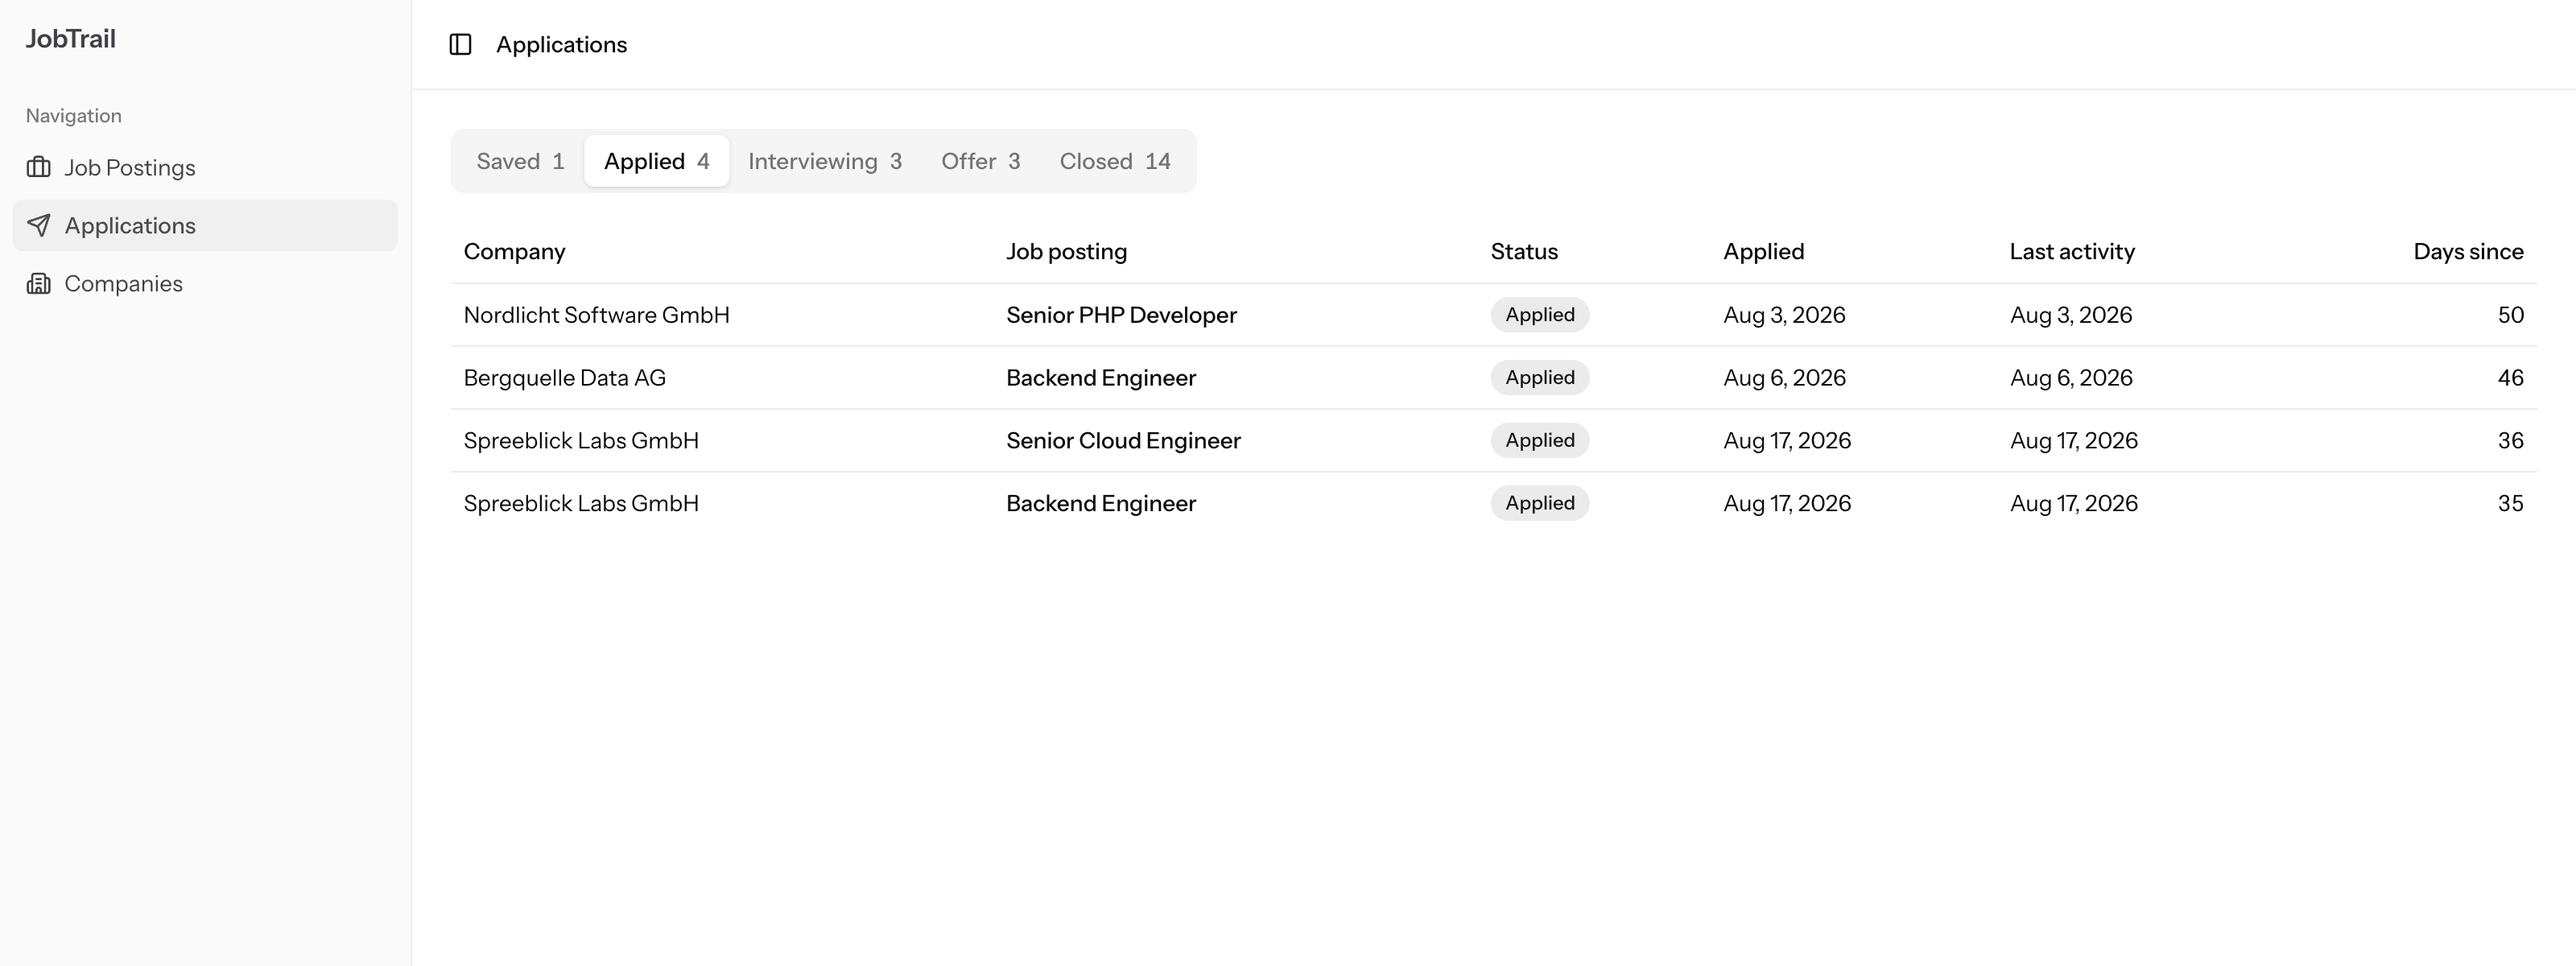
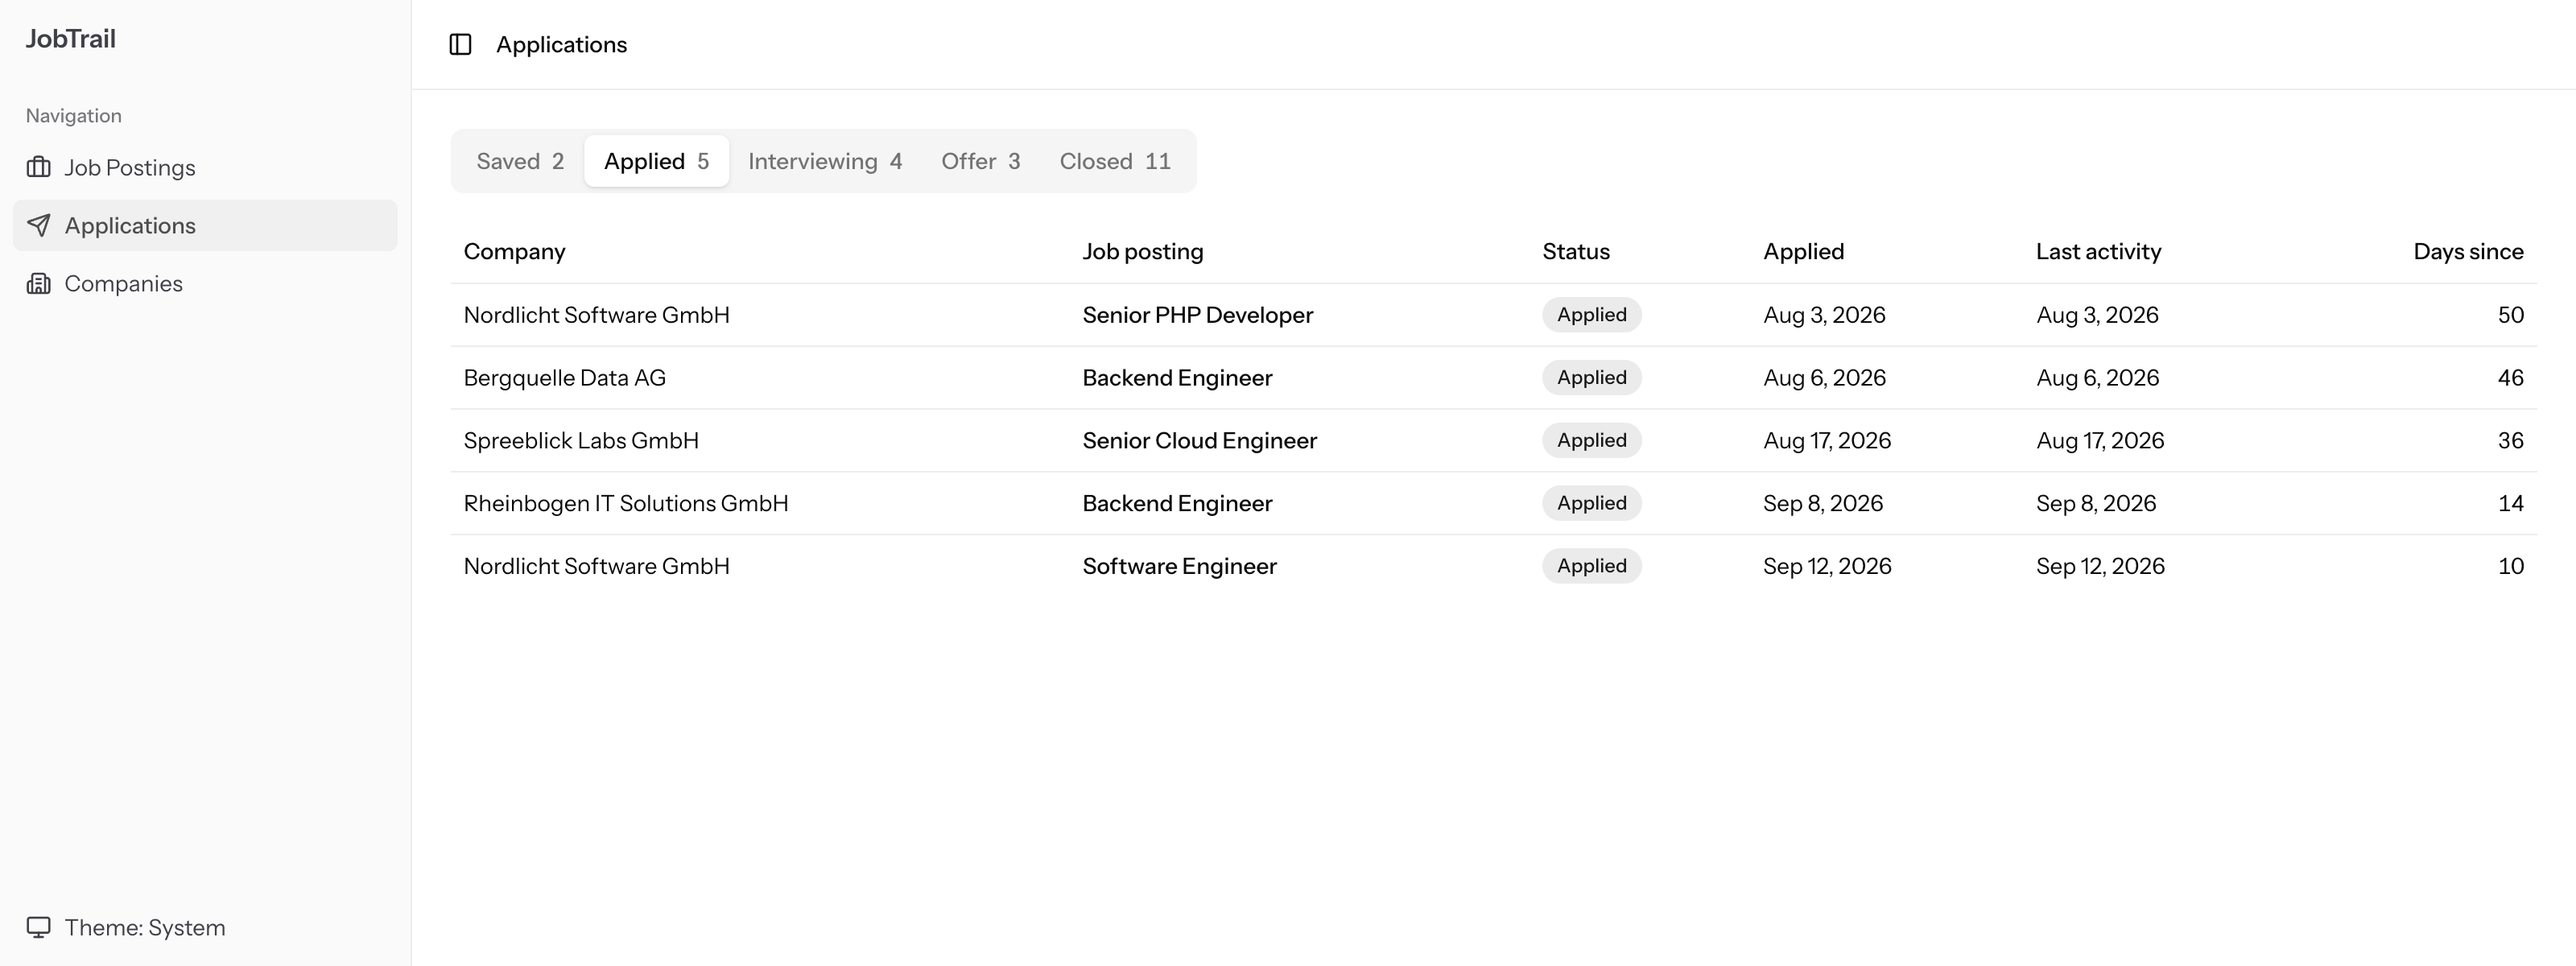
docs: update the screenshots and README for the theme and Linux support

diff --git a/README.md b/README.md
@@ -15,6 +15,7 @@ It is a single-user app without a login, built with Laravel 13, Vue 3 and Postgr
 - **Companies** as their own records, created inline while adding a posting.
 - **Applications** with seven statuses (Saved, Applied, Interviewing, Offer, Accepted, Rejected, Withdrawn) and a dated history. Entries can be backdated, edited and undone, and the history always stays in order.
 - **Follow-ups first:** the Applications view groups applications by status and lists the ones with the oldest activity first.
+- **Light and dark theme:** a toggle in the sidebar; by default it follows the operating system.
 - **Demo data:** 12 fictional companies, 40 postings and 25 applications from the German job market, recreated identically on every reset.
 
 ![A posting with its application history](docs/screenshots/posting-detail.png)
@@ -23,7 +24,7 @@ It is a single-user app without a login, built with Laravel 13, Vue 3 and Postgr
 
 ## Quick start
 
-You need Docker with Compose v2 (for example Docker Desktop) and free ports 8080, 5173, 5432 and 5050. JobTrail is developed and tested on macOS with Docker Desktop.
+You need Docker with Compose v2 (for example Docker Desktop) and free ports 8080, 5173, 5432 and 5050. JobTrail is developed on macOS with Docker Desktop and also checked on Linux with Docker Engine.
 
 ```bash
 git clone https://github.com/zoranstankovic/jobtrail.git
@@ -34,6 +35,8 @@ docker compose up
 The first start builds the image and installs the Composer and npm dependencies, which takes a few minutes. When the log shows `[entrypoint] ready` and the Vite dev server has started, open <http://localhost:8080>.
 
 There is nothing else to set up: `.env` is created from `.env.example` with a new application key, the migrations run, and the demo data is seeded into the empty database.
+
+On Linux the containers act as the owner of the checkout, so `vendor/`, `node_modules/`, `.env` and the logs belong to you, not to root.
 
 ## Services
 
